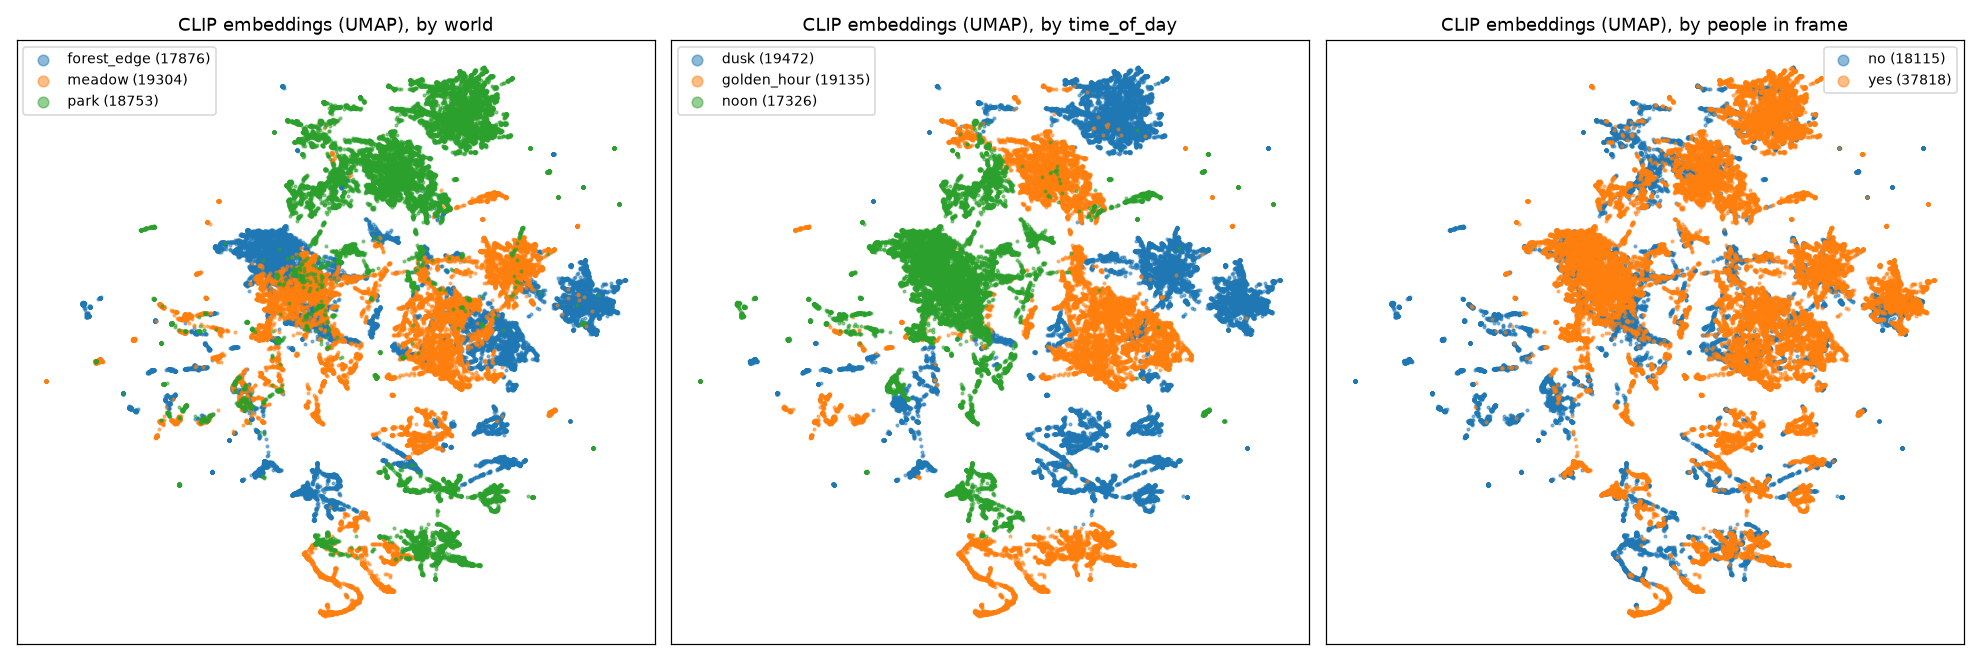
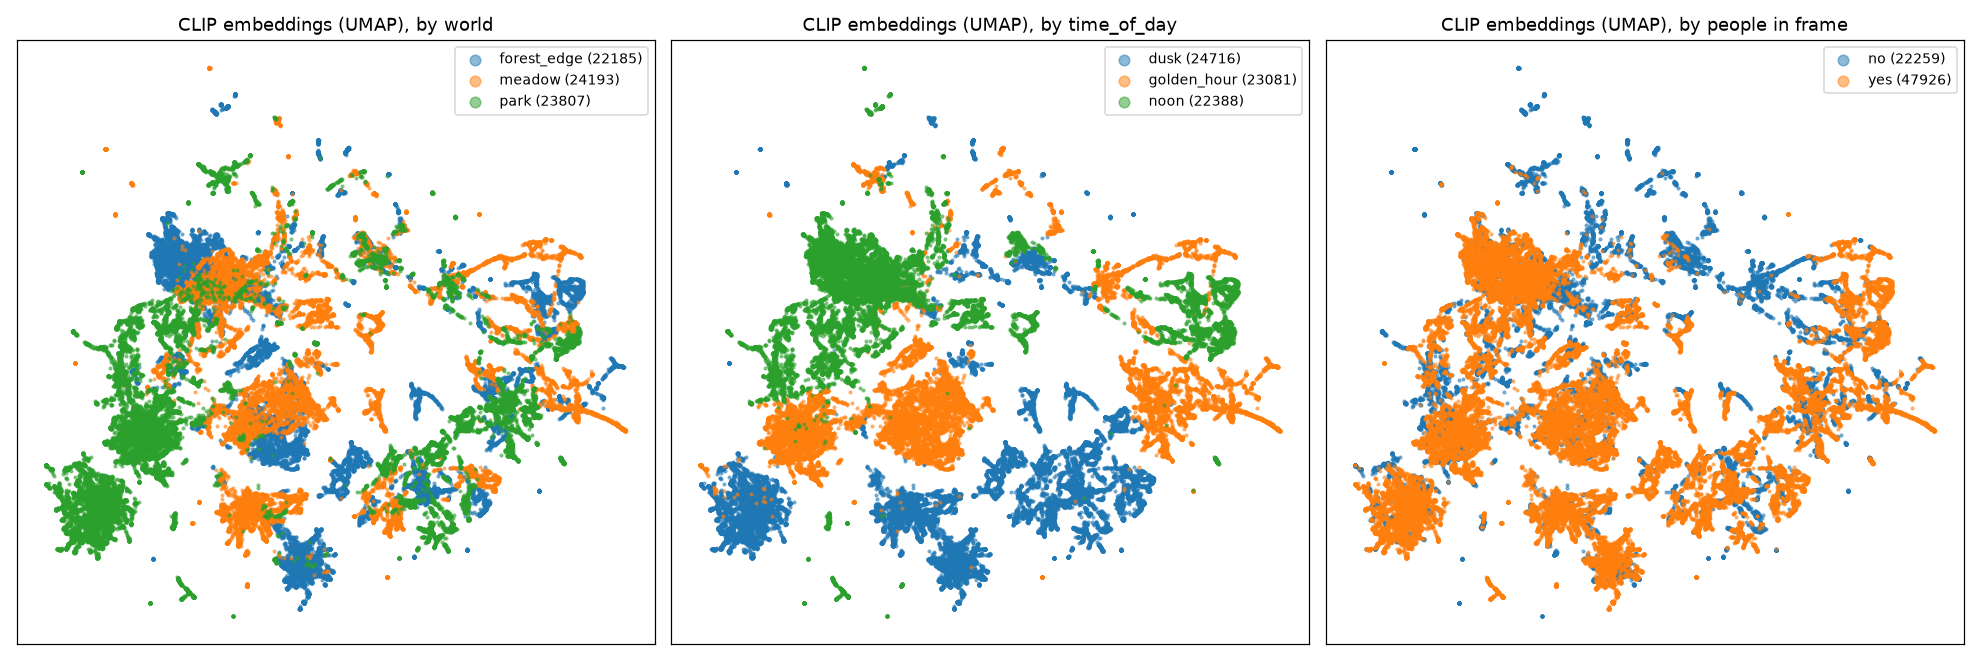
MIT licence; make the three-sizes table's first column concrete
The code is MIT. The README states what that does not cover: the
training and detection modules import Ultralytics (AGPL-3.0), and the
data and models keep their own licences. The 'tonight's loop' column
now describes the one-evening version of each stage.

diff --git a/README.md b/README.md
@@ -102,16 +102,17 @@ recall, and found 93 % of people in the open but 37 % of those under trees.
             detector + tracker back in the mission loop ─> mission metrics
 ```
 
-The same loop at three sizes:
+The same loop at three sizes. "Tonight's loop" is what one evening buys:
+the whole loop, each stage done once and by hand.
 
-| Stage | Smallest version that works | This project | Production |
+| Stage | Tonight's loop (one evening) | This project | Production |
 | --- | --- | --- | --- |
-| See | A folder of images | 86 simulated flights as MCAP episodes, with a manifest (seed, config, commit) per flight | A fleet's logs in object storage, indexed |
-| Curate | Look through the images | Embeddings, near-duplicate tagging, hard-case views, splits by episode | Mining across millions of scenes, scenario taxonomies |
-| Label | Draw boxes by hand | Exact labels from the simulator; an auto-labeller measured against them | Auto-labelling with human review queues and QA |
-| Train | One notebook run | One command per version, with a data hash and a run record | Scheduled, distributed training with experiment tracking |
-| Evaluate | One accuracy number | A scorecard: simulated and real test sets, bootstrap intervals, the gap | Many frozen test sets, regression gates, closed-loop simulation at scale |
-| Close the loop | (none) | The detector flies 15 unseen worlds; mission metrics | Shadow mode, on-road validation |
+| See | One recorded flight, or a folder of drone images | 135 simulated flights as MCAP episodes, each with a manifest line (seed, config, commit) | A fleet's logs in object storage, indexed and searchable |
+| Curate | Scroll through the images in FiftyOne | Embeddings, near-duplicate tagging, hard-case views, splits by whole flight | Mining across millions of scenes; scenario taxonomies |
+| Label | A pretrained or open-vocabulary detector's boxes, taken as they come | Exact labels from the simulator; an auto-labeller measured against them | Auto-labelling with human review queues and label QA |
+| Train | One fine-tuning run in a notebook | One command per version, with a data hash, a run record and repeat seeds | Scheduled distributed training with experiment tracking |
+| Evaluate | One mAP number on whatever was held out | A scorecard: simulated and real test sets, bootstrap intervals, run-to-run spread, the gap | Many frozen test sets, regression gates, slice metrics |
+| Close the loop | Look at a few predictions | The detector flies 15 unseen worlds; mission metrics; false-alarm review feeds the next world design | Shadow mode and on-road validation feeding the next data collection |
 
 ## Run it
 
@@ -229,8 +230,14 @@ PX4's own clock, battery reported on a 0 to 100 scale.
 
 ## Licences and credits
 
-- **This repository's code:** no licence file yet; all rights reserved by
-  default until one is added.
+- **This repository's code:** MIT ([LICENSE](LICENSE)). Use, copy and change
+  it freely.
+- **What MIT does not cover.** The training and detection modules
+  (`sardrone/train/`, `sardrone/mission/detector.py`) import Ultralytics,
+  which is AGPL-3.0. Distributing a product that combines them with
+  Ultralytics is subject to AGPL-3.0 (or an Ultralytics licence). The data
+  and models listed below keep their own licences, and none of them is
+  included in this repository.
 - **Ultralytics YOLO11:** AGPL-3.0. Fine for a portfolio project; it would
   matter for a closed-source product.
 - **SARD** (the real test set): Sasa Sambolek and Marina Ivasic-Kos,
